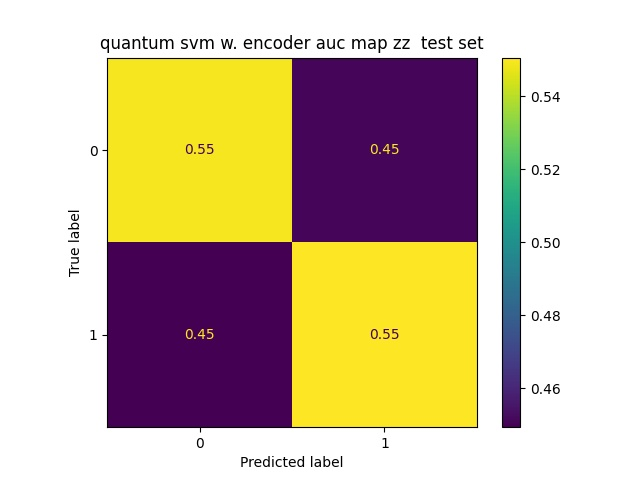
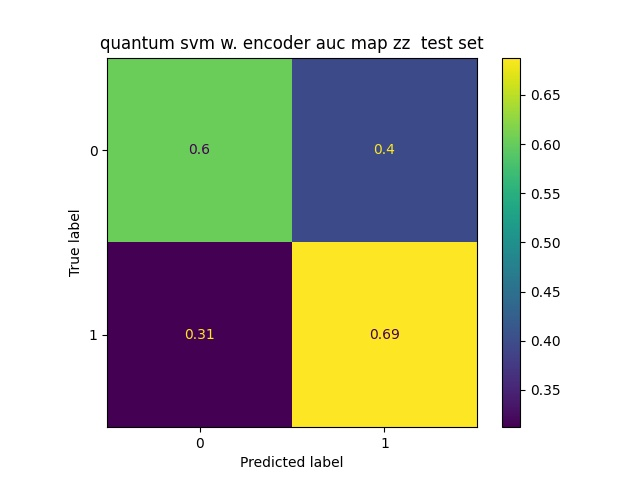
corrected auc

diff --git a/whole.py b/whole.py
@@ -11,7 +11,7 @@ from qiskit.circuit.library import ZZFeatureMap
 from qiskit.utils import QuantumInstance, algorithm_globals
 from qiskit_machine_learning.algorithms import QSVC
 from qiskit_machine_learning.kernels import QuantumKernel
-from qiskit_machine_learning.datasets import ad_hoc_data
+
 
 from sklearn.kernel_approximation import Nystroem
 from sklearn.utils import shuffle
@@ -67,8 +67,8 @@ bg_train = np.where(y_train == 0)
 sig_train = np.where(y_train == 1)
 
 
-encoders = ['auc','pca','nys']
-#encoders = ['auc']
+#encoders = ['auc','pca','nys']
+encoders = ['auc']
 
 from time import time
 CMAT_PATH = 'cmats/'
@@ -76,8 +76,8 @@ CMAT_PATH = 'cmats/'
 seed = 12345
 
 
-#f_maps = ['u2','zz']
-f_maps = ['zz']
+f_maps = ['u2','zz']
+#f_maps = ['u2']
 
 zz = ZZFeatureMap(feature_dimension=n_c, reps=2, entanglement='linear')
 u2 = u2Reuploading(nqubits = n_c//2, nfeatures=n_c)
@@ -155,14 +155,18 @@ for encoder in encoders:
     if PROBA:
         print(f"\t\t CALCULATING ROC AUC SCORES: this may take some time")
         y_proba = svm.predict_proba(x_tf_train[:PREDICTIONS])
-        score = roc_auc_score(y_train[:PREDICTIONS], y_proba[:,0])
+        score = roc_auc_score(y_train[:PREDICTIONS], y_proba[:,1])
 
         print(f"\t\t Classical svm ROC AUC score TRAINING SET {max(score,1 - score) :.2f}")
 
         y_proba = svm.predict_proba(x_tf_test[:PREDICTIONS])
-        score = roc_auc_score(y_test[:PREDICTIONS], y_proba[:,0])
+        score = roc_auc_score(y_test[:PREDICTIONS], y_proba[:,1])
 
         print(f"\t\t Classical svm ROC AUC score TEST SET {max(score,1 - score):.2f}")
+
+        """
+        Distribuzioni di probabilità
+        """
 
 
 
@@ -214,14 +218,18 @@ for encoder in encoders:
         if PROBA:
             print(f"\t\t CALCULATING ROC AUC SCORES: this may take some time")
             y_proba = qsvm.predict_proba(x_tf_train[:PREDICTIONS])
-            score = roc_auc_score(y_train[:PREDICTIONS], y_proba[:,0])
+            score = roc_auc_score(y_train[:PREDICTIONS], y_proba[:,1])
 
             print(f"\t\t Quantum svm ROC AUC score TRAINING SET {max(score,1 - score) :.2f}")
 
             y_proba = qsvm.predict_proba(x_tf_test[:PREDICTIONS])
-            score = roc_auc_score(y_test[:PREDICTIONS], y_proba[:,0])
+            score = roc_auc_score(y_test[:PREDICTIONS], y_proba[:,1])
 
             print(f"\t\t Quantum svm ROC AUC score TEST SET {max(score,1 - score) :.2f}")
+
+            """
+            Distribuzioni di probabilità 
+            """
 
 
 
